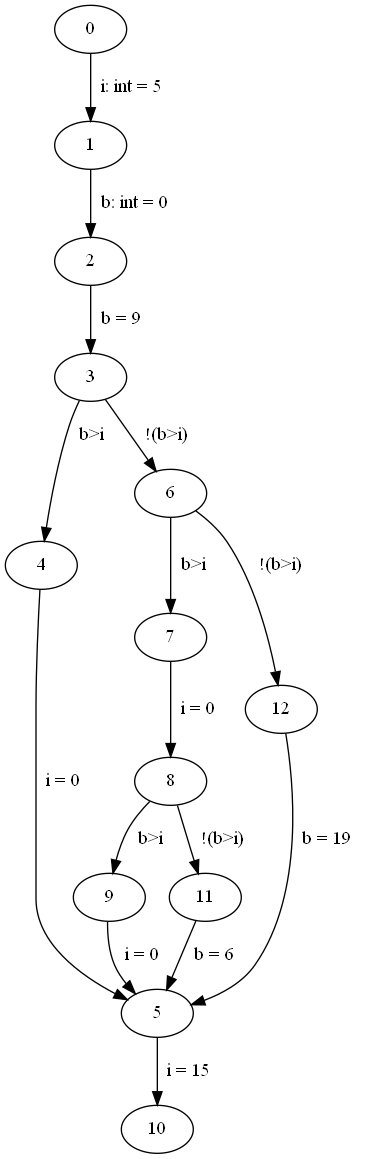
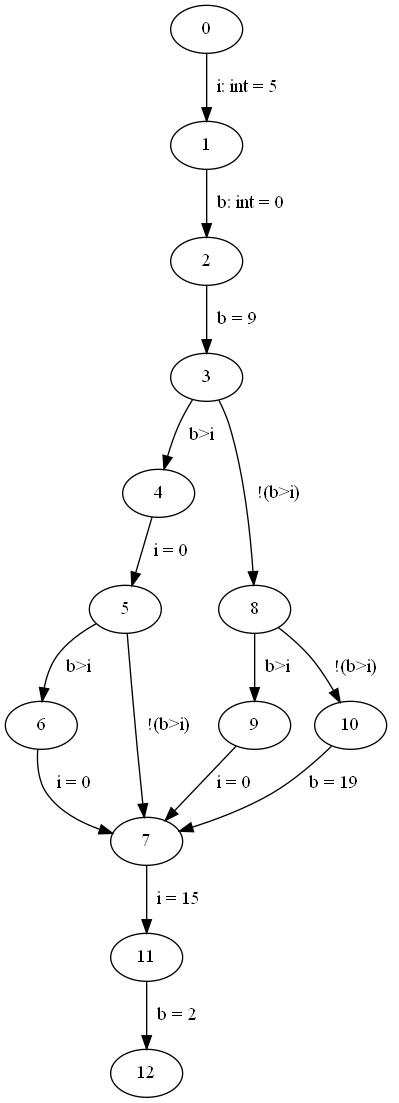
Fixed issue with gaps in graph node numbers

diff --git a/src/microC/ProgramGraph/ProgramGraph.java b/src/microC/ProgramGraph/ProgramGraph.java
@@ -34,7 +34,21 @@ public class ProgramGraph {
         for(ProgramGraphNode programGraphNode: programGraphNodes){
             existingNodeNumbers.add(programGraphNode.getNumber());
         }
+
+        fillGapsInNodeNumbers(existingNodeNumbers);
         return existingNodeNumbers;
+    }
+
+    public void fillGapsInNodeNumbers(ArrayList<Integer> existingNodeNumbers){
+        for (int i = 1; i < existingNodeNumbers.size(); i++){
+            int gapSize = existingNodeNumbers.get(i)-existingNodeNumbers.get(i-1);
+            if(gapSize > 1){
+                for (int j = i; j < existingNodeNumbers.size(); j++){
+                    programGraphNodes.get(j).setNumber(j);
+                    existingNodeNumbers.set(j, j);
+                }
+            }
+        }
     }
 
     public Boolean removeProgramGraphNode(ProgramGraphNode programGraphNode){

diff --git a/src/microC/ProgramGraph/ProgramGraphNode.java b/src/microC/ProgramGraph/ProgramGraphNode.java
@@ -26,6 +26,10 @@ public class ProgramGraphNode {
         // When creating fresh edges check if node with number exists and increment if yes
         int newNodeNumber = this.number + 1;
 
+
+        //TODO Check for gaps in program graph numbers and fill gaps
+
+
         // If node is not added to program graph it throws a NullPointerException when this method is called
         // The node MUST be added to the programGraph to create a reference
         try {

diff --git a/src/antlr/Launch.java b/src/antlr/Launch.java
@@ -22,7 +22,7 @@ public class Launch {
     public static void main(String[] arg) throws IOException {
         try {
             //String source = "micro_c.txt";
-            String source = "test.txt";
+            String source = "tests/test.txt";
             CharStream cs = CharStreams.fromFileName(source);
             MicroCLexer lexer = new MicroCLexer(cs);
             CommonTokenStream token = new CommonTokenStream(lexer);

diff --git a/src/microC/ProgramGraph/ProgramGraphBuilderVisitor.java b/src/microC/ProgramGraph/ProgramGraphBuilderVisitor.java
@@ -181,7 +181,6 @@ public class ProgramGraphBuilderVisitor implements ASTBaseVisitor<Boolean> {
                 inGoingEdge.setEndNode(nodeAfterBlock);
                 nodeAfterBlock.addEdgeIn(inGoingEdge);
             }
-
             node = nodeAfterBlock;
 
             // Clear up connection of the unnecessary node
